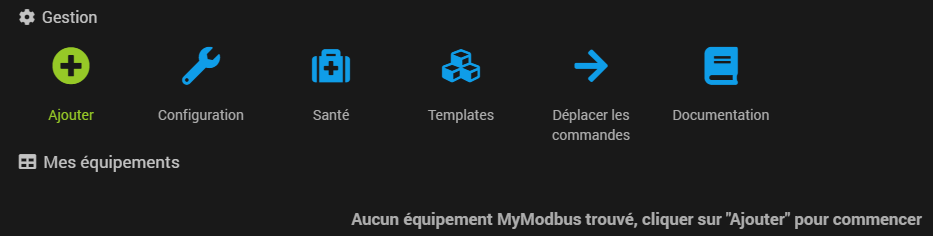
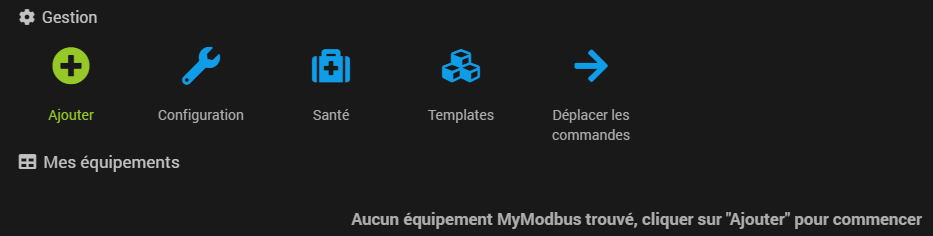
MyModbus . nouvelle bêta avec test des registres

Changed region(s): [[0.746, 0.178, 0.8081, 0.3559], [0.7149, 0.4746, 0.8392, 0.5339]]

diff --git a/docs/fr_FR/mymodbus_doc.md b/docs/fr_FR/mymodbus_doc.md
@@ -61,7 +61,7 @@ capacités de votre machine.
 Il est fortement conseillé de désactiver la gestion automatique du démon durant l'installation afin que le démon ne
 soit pas démarré par Jeedom sans que MyModbus ne soit installé complètement.
 
-Ici, on peut constater que l'installation de MyModbus sur un Raspberry PI 3B peut durer vraiment longtemps :  
+Ici, on peut constater que l'installation de MyModbus bêta sur un Raspberry PI 3B peut durer vraiment longtemps :  
 ![Installation sur un Rasperry PI 3B](../images/mymodbus/Installation_RPI3B.png)
 
 Une fois l'installation terminée, la page de gestion du plugin MyModbus ressemblera à ceci :  
@@ -240,6 +240,28 @@ particulier, le port est le 502.
 
 Ce sont les mêmes paramètres qui sont à renseigner pour les connexions UDP ou RTUoverTCP.
 
+### Equipement de test de registres
+
+Si la case "Equipement destiné à tester l'existence des registres" est cochée, l'équipement fonctionne de manière
+singulière. Seule la commande action "Rafraîchir" est créée ainsi que les commandes info correspondant aux registres à
+tester.
+
+![Configuration de test](../images/mymodbus/Config_test.png)
+
+Le message est clair : lors de la sauvegarde de l'équipement, si l'équipement est activé, toutes les commandes seront
+supprimées sans demande de confirmation.
+
+Dans ce cas, toutes les commandes info sont systématiquement supprimées lors de la sauvegarde et les commandes nécessaires
+sont automatiquement créées. Ici un exemple qui correspond à la capture précédente :
+
+![Commandes de test](../images/mymodbus/Commandes_test.png)
+
+Si le démon est démarré et l'équipement activé, le test de la commande de rafraichissement lance un cycle de lecture des
+registres à tester.  
+Le résultat de la lecture des registres est affiché :
+
+![Résultat des test](../images/mymodbus/Résultat_test.png)
+
 ## Création et configuration des commandes
 
 > :bulb: ***Conseil***  
@@ -291,7 +313,7 @@ Si la commande correspond à un registre dans un esclave sur un bus série d'une
 une passerelle IP/série, vous devez renseigner l'adresse de l'esclave sur le bus Modbus. Sinon vous pouvez laisser "1".
 
 > :memo: ***Remarque***  
-> Sur l'ancienne version bêta, ce paramètre s'appelait "Unit ID" et était à configurer dans l'équipement.
+> Sur l'ancienne version du plugin, ce paramètre s'appelait "Unit ID" et était à configurer dans l'équipement.
 
 ### Fonction Modbus
 

diff --git a/docs/fr_FR/mymodbus_changelog.md b/docs/fr_FR/mymodbus_changelog.md
@@ -4,11 +4,16 @@
 - Traduction
 - Proposer un outil permettant de vérifier l'existence de registres avec différentes configurations de décodage des informations reçues.
 - Documentation :
-  - Documenter les nouvelles fonctionnalités (documentation à jour avec la version V3.0 stable)
+  - Documenter les nouvelles fonctionnalités (documentation à jour avec la version V3.0.1 bêta)
 
 ## Développement en cours dans la branche beta-dev pour la prochaine bêta
-- Utilisation de pymodbus V3.8.3
+- Aucun nouveau développement en cours
+
+## 01/02/2025 V3.0.1 bêta
+- Suppression du lien inutile vers la documentation depuis la configuration des équipements (préparation pour la mise en place de la traduction)
+- Utilisation de la dernière version de pymodbus : V3.8.3
 - Simplification de la page modale santé
+- Il est possible de créer un équipement de test qui va vérifier si les registres dans une certaine plage existent.
 
 ## 23/01/2025 V3.0 stable
 - Passage de la version 3.0 bêta63 en stable
